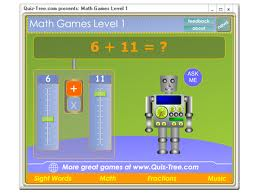
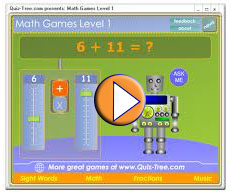
error validating

diff --git a/index.html b/index.html
@@ -8,27 +8,39 @@
 		<header>
 			<nav>
 				<h1>Math Club</h1>
-					<ul>
-						<li><a href="index.html">Home</a></li>
-					</ul>
+					<div id="navigation">	
+						<ul>
+							<li><a href="index.html">Home</a></li>
+						</ul>
+					</div><!--end "navigation" div-->
 			</nav>
+		</header>
 	<section>
 		<h2>Exercise Your Brain</h2>
-			<p>Math Club offers animated, dynamic, and interactive games. The games include fractions, dividing, multiplication, adding, and subtracting. The speed at which students can formulate counts. This makes it more challenging-and fun also! These games will not only increase players' focus level throughout the day, but, eliminate fears of not being 
+			<p>Math Club offers animated, dynamic, and interactive games. The games include fractions, dividing, multiplication, adding, and subtracting. The speed at which students can formulate counts. This makes it more challenging-and fun also! These games will not only increase a student's focus level throughout the day, but, eliminate fears of not being 
 			good at the subject of math.</p>
+				<ul>
+					<li><img src="images/MathGame2.jpg" alt="game" ></li>
+						<li><img src="images/FunnyScientist.jpg" alt="teacher" ></li>
+							<li><img src="images/NewLifeMath.jpg" alt="symbols" ></li>
+								<li><img src="images/GearsWorking.jpg" alt="gears" ></li>
+				</ul>
  	</section>
  		<article>
- 			<header>
- 				<h3>Site Review</h3>
+ 			
+ 				<h3>Parental Review</h3>
  					<p>Published 08/06/13</p>
- 			</header>
- 					<p>My daughter signed up for Math Club. After two weeks of interactive gaming she stopped asking for help with her homework. Adelyn's grades went up after a month. Thank you Math Club!</p> 
- 				<footer>
- 					<p>Sandra K.</p>
- 				</footer>
+ 			
+ 						<p>My daughter signed up for Math Club in October. After two weeks of interactive gaming she stopped asking for help with her homework. Adelyn's grades went up after a month. Thank you Math Club!</p> 
+ 				
+ 						<p>Sandra K.</p>
+ 				
  		</article>
- 	<aside><!--Picture with link to preview a game-->
+ 			<p>Math Club is a <strong>free</strong> website. Please sign up today. Learning is our goal.</p>
+ 	<aside>
+ 		<h4>Press the play button to preview a math game.</h4>
+ 				<p><a href="games.html"><img src="images/MathGame.jpg" alt="robot" ></a></p>
  	</aside>			
-	<footer>Math Club&copy;2013</footer>
-	</body>
-	</html>
+		<footer>Math Club&copy;2013</footer>
+			</body>
+				</html>
